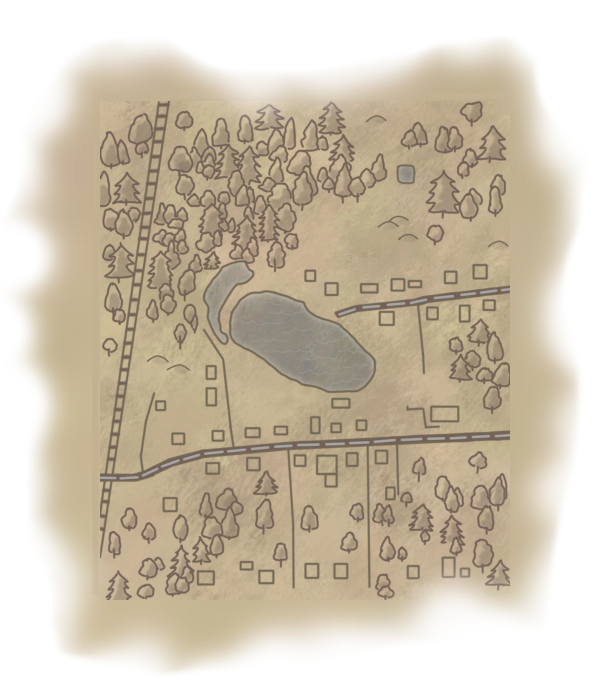
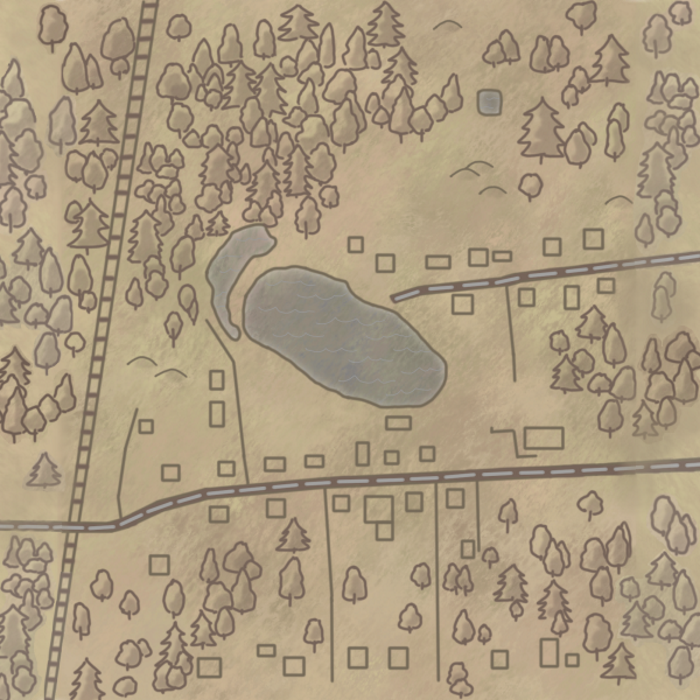
Карта

diff --git a/frontend/src/main/views/MapView.vue b/frontend/src/main/views/MapView.vue
@@ -194,7 +194,7 @@ export default {
 }
 
 .map-img {
-  width: 611px;
+  width: 700px;
   height: 700px;
 }
 
